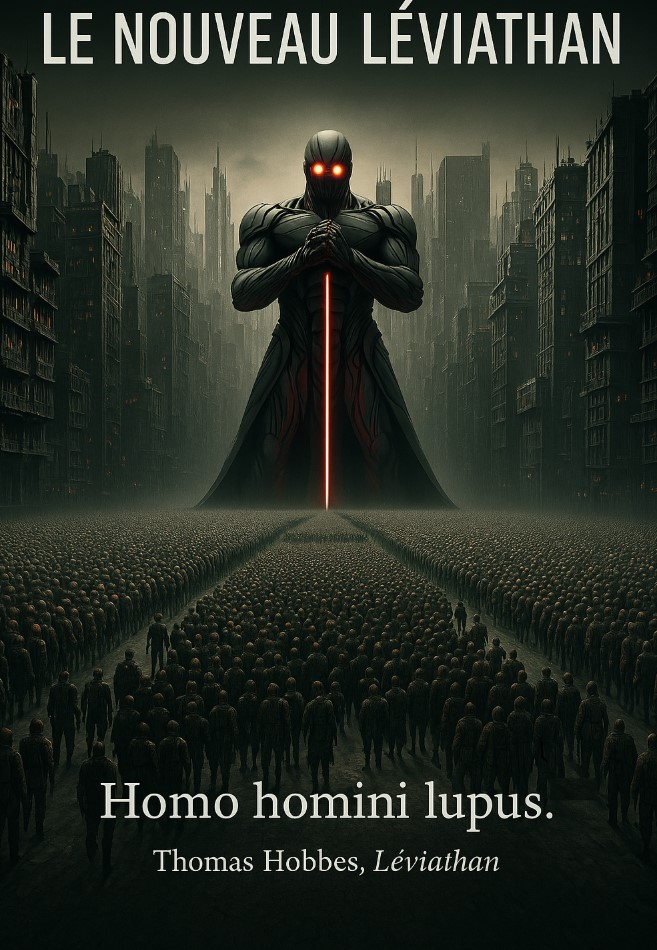
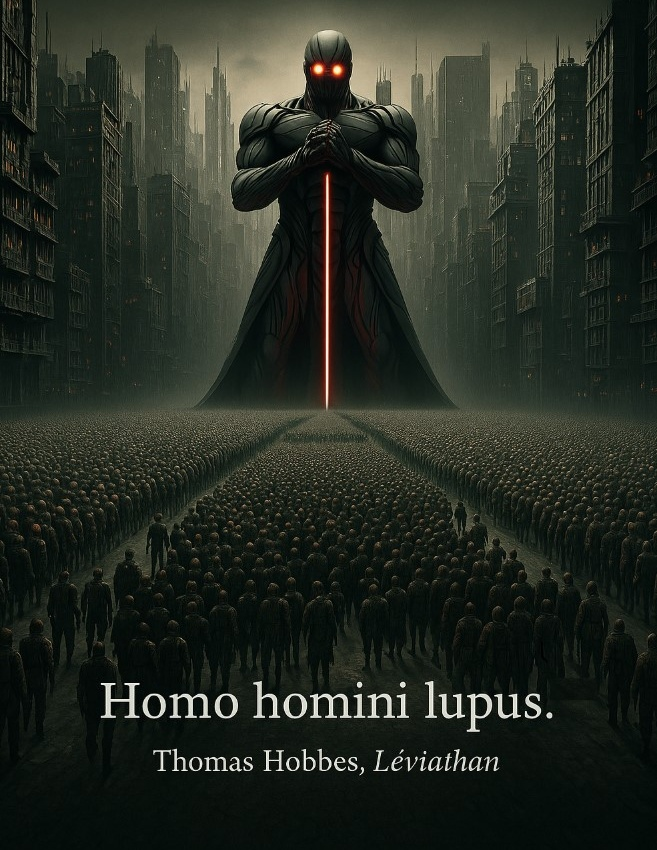
Hero pleine largeur : image en background-image cover, titre supprimé
- Supprime le <img> hero et la contrainte max-width:480px
- L'image couvre toute la largeur viewport en background-size:cover
- Overlay dégradé sombre pour la lisibilité du texte superposé
- Image recadrée (titre LE NOUVEAU LÉVIATHAN retiré du haut)

diff --git a/index.html b/index.html
@@ -17,6 +17,10 @@
       position: relative;
       overflow: hidden;
       padding: 6rem 2rem 4rem;
+      background-image: url('assets/img/leviathan.jpg');
+      background-size: cover;
+      background-position: center top;
+      background-repeat: no-repeat;
     }
 
     #hero::before {
@@ -24,18 +28,9 @@
       position: absolute;
       inset: 0;
       background:
-        radial-gradient(ellipse at 50% 30%, rgba(200,51,74,0.12) 0%, transparent 60%),
-        radial-gradient(ellipse at 80% 80%, rgba(58,122,138,0.05) 0%, transparent 50%);
+        linear-gradient(to bottom, rgba(10,10,15,0.55) 0%, rgba(10,10,15,0.75) 60%, rgba(10,10,15,0.95) 100%),
+        radial-gradient(ellipse at 50% 30%, rgba(200,51,74,0.10) 0%, transparent 60%);
       pointer-events: none;
-    }
-
-    #hero-img {
-      width: 100%;
-      max-width: 480px;
-      display: block;
-      margin: 0 auto 3rem;
-      position: relative;
-      z-index: 1;
     }
 
     .hero-content {
@@ -276,7 +271,7 @@
 
     @media (max-width: 600px) {
       .trilogy-grid { grid-template-columns: 1fr; }
-      #hero-img { max-width: 320px; }
+      #hero { background-position: center center; }
     }
   </style>
 </head>
@@ -297,8 +292,6 @@
 
   <!-- HERO -->
   <section id="hero">
-    <img src="assets/img/leviathan.jpg" alt="Le Nouveau Léviathan" id="hero-img"
-         onerror="this.style.display='none'">
     <div class="hero-content fade-in">
       <span class="hero-tagline">Trilogie — Hard Science-Fiction</span>
       <h1 class="hero-title">Le Nouveau<br>Léviathan</h1>